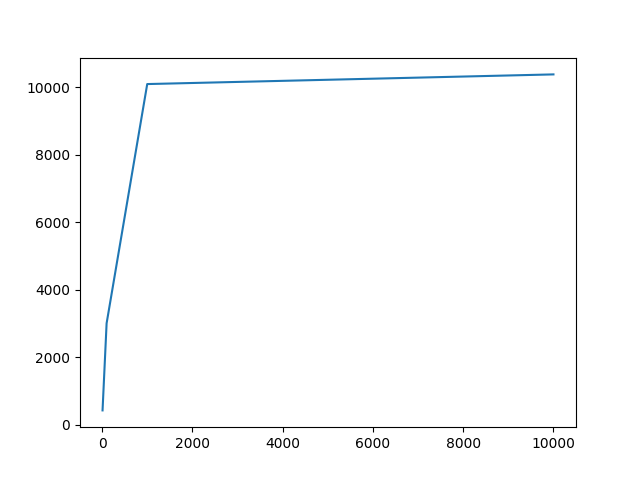
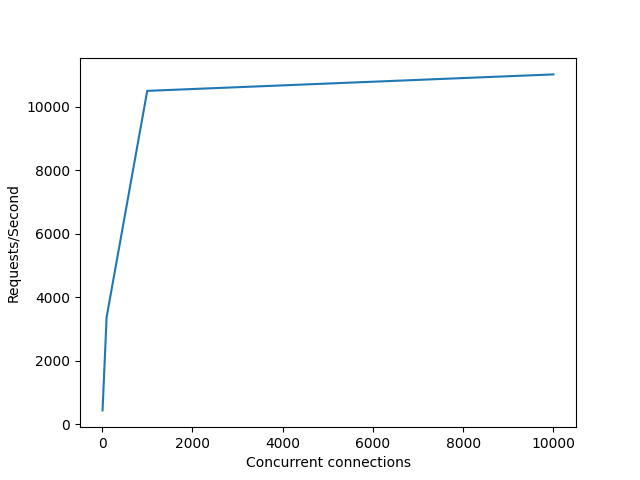
add plotting

diff --git a/task1/teame-01/plot.py b/task1/teame-01/plot.py
@@ -2,6 +2,8 @@ import matplotlib.pyplot as plt
 
 ys = list(map(float, open("bench.out", "r").read().strip().split("\n")))
 xs = [10, 100, 1000, 10000]
+plt.xlabel("Concurrent connections")
+plt.ylabel("Requests/Second")
 
 plt.plot(xs,ys)
 

diff --git a/task1/teame-01/README.md b/task1/teame-01/README.md
@@ -33,9 +33,19 @@ To execute the http benchmark run:
 This benchmark retrieves the front page and measures the requests per second. 
 
 
+To run the benchmark and generate plot from the result run:
+```
+./gen_plots.sh
+```
+
+
 ## Full System profiling 
 
 Unfortunately we didn't get full system profiling to work in time.
 
 
 # Plots 
+
+![homepage plot](./plot.png)
+
+
